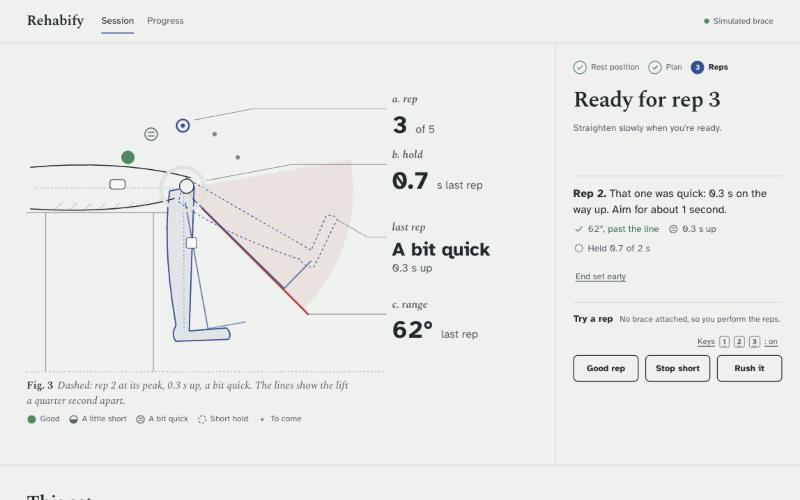
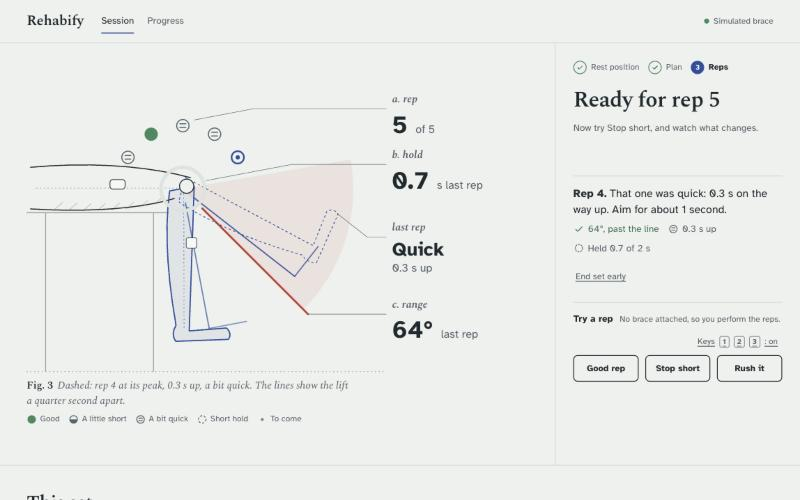
Hint suggests untried rep styles after a reload; refresh README hero image

diff --git a/static/index.html b/static/index.html
@@ -773,8 +773,8 @@ function updateCue() {
   if (!S.rep.in) {
     if (n >= p.reps) { h = "That's the set"; sub = "Saving your reps…"; }
     else if (n === 0) { h = "Straighten your knee slowly"; sub = sim ? "Press Good rep below, then try the other two to see how Rehabify responds." : `Lift until you feel the click, then hold for ${secs(p.hold_s)}.`; }
-    else if (sim && S.tried.size < 3) { const left = Object.keys(SIM_LABEL).filter(k => !S.tried.has(k)).map(k => SIM_LABEL[k]);
-      h = `Ready for rep ${n + 1}`; sub = `Now try ${left.join(" or ")}, and watch what changes.`; }
+    else if (sim && (() => { const done = new Set([...S.tried, ...S.reps.map(r => ({ good: "controlled", short: "short", rushed: "rushed" })[r.verdict])]); S.left = Object.keys(SIM_LABEL).filter(k => !done.has(k)).map(k => SIM_LABEL[k]); return S.left.length; })()) {
+      const l = S.left; h = `Ready for rep ${n + 1}`; sub = `Now try ${l.length > 1 ? l.slice(0, -1).join(", ") + " or " + l.at(-1) : l[0]}, and watch what changes.`; }
     else { h = `Ready for rep ${n + 1}`; sub = "Straighten slowly when you're ready."; }
   } else if (S.rep.held) { h = "Lovely. Now lower slowly"; sub = `Take about ${secs(p.min_ret_s)} on the way down.`; }
   else if (S.hold > 0) { h = "Hold it there"; sub = "Keep your thigh on the chair."; }
